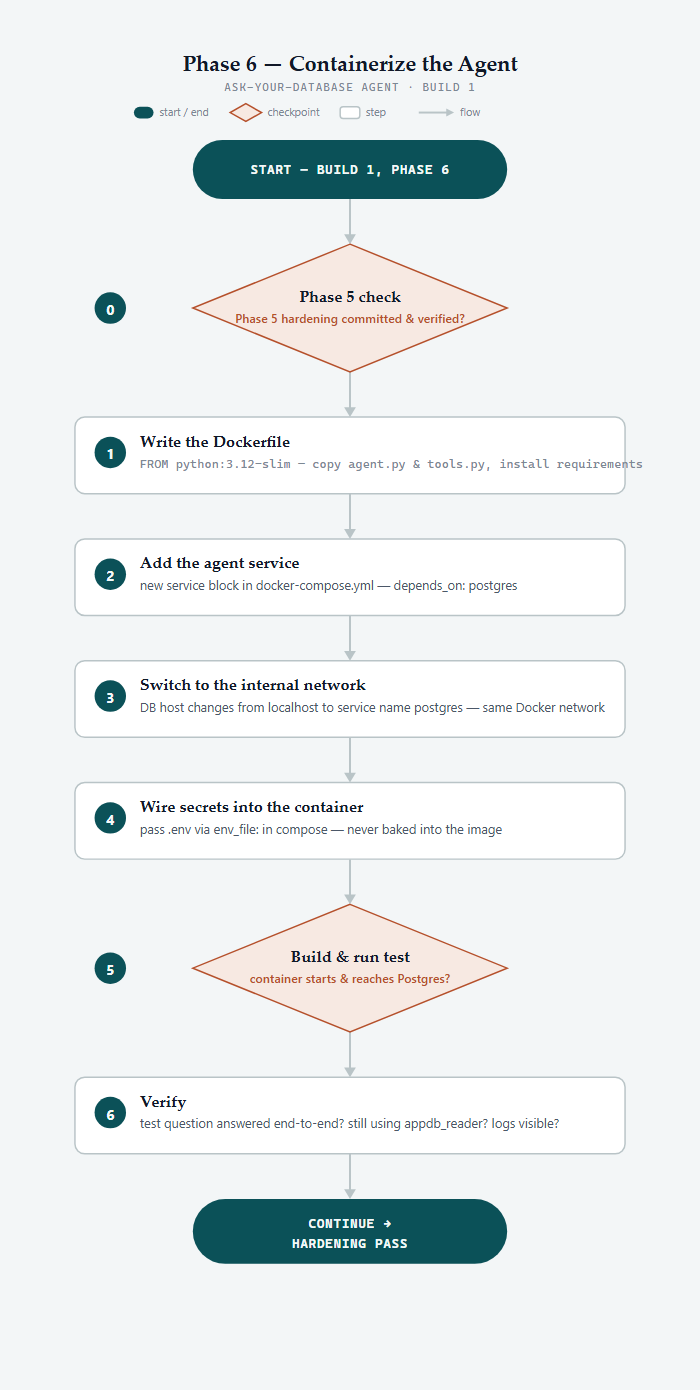
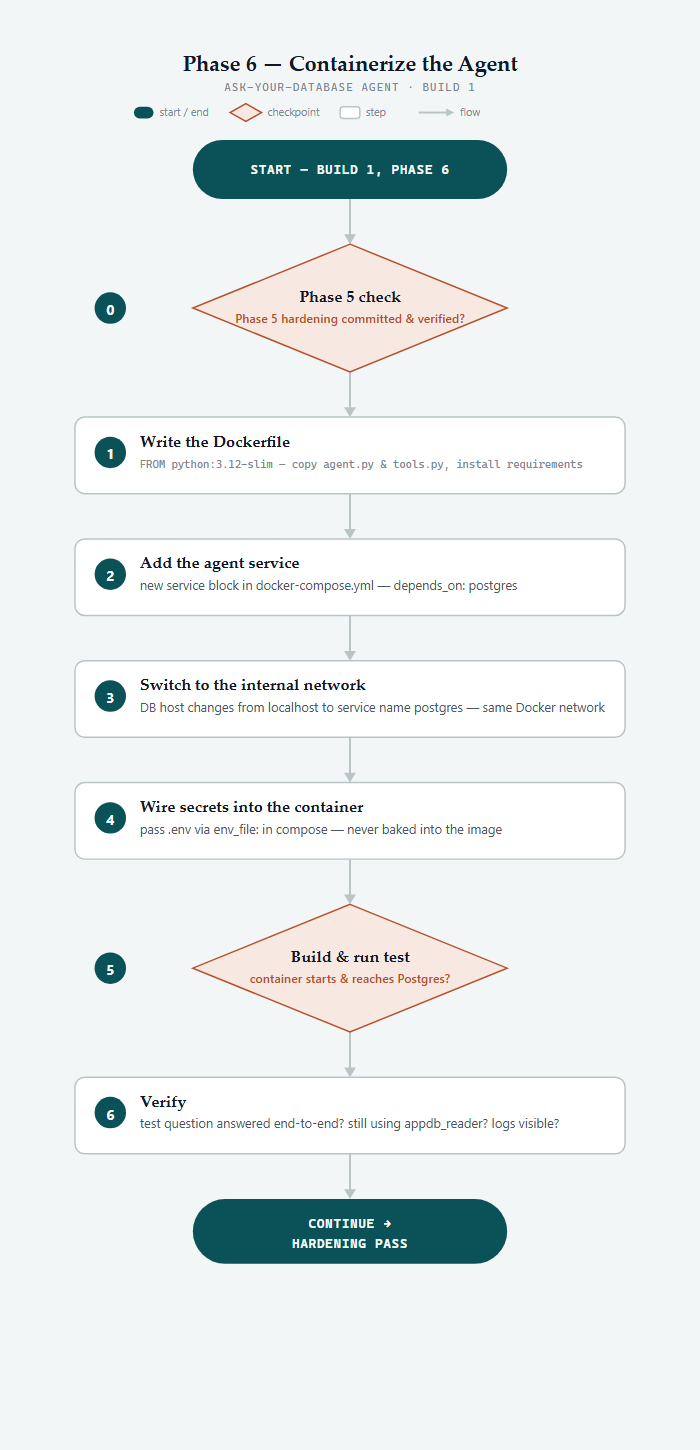
Fix Build 1 diagram text overflow, restyle and iconify the overview lists
The Dockerfile step's monospace command line ran flush to the box edge
(490px of text in ~494px of available width, vs. 50-90px of margin on
every other row) - dropped the .step-mono font size from 12.5px to 11px
in both the SVG source and its HTML viewer wrapper, regenerated the PNG
from the fixed HTML via headless render, and visually re-verified the
overflow is gone rather than trusting the width math alone.

"What it does" and "What makes it stand out" are now accent-green and
larger, each with a heading icon, and every one of their 11 list items
gets its own small icon badge (search, database, lock, shield-check,
etc.) instead of a plain bullet dot - breaks up what was a dense wall
of text into visually distinct, scannable items.

diff --git a/index.html b/index.html
@@ -95,16 +95,22 @@
   /* ---- project overview (up front) ---- */
   .overview-list { list-style: none; margin: 0 0 1.6rem; padding: 0; }
   .overview-list li {
-    position: relative; padding-left: 22px; margin-bottom: 0.85rem;
+    display: flex; align-items: flex-start; gap: 0.75rem; margin-bottom: 1rem;
     color: var(--muted); font-size: 0.96rem; max-width: 66ch; line-height: 1.6;
   }
-  .overview-list li::before {
-    content: ""; position: absolute; left: 0; top: 8px;
-    width: 7px; height: 7px; border-radius: 50%; background: var(--accent);
+  .overview-list .li-icon {
+    flex-shrink: 0; width: 30px; height: 30px; margin-top: 0.05rem;
+    border-radius: 8px; background: var(--tint);
+    display: flex; align-items: center; justify-content: center;
   }
+  .overview-list .li-icon svg { width: 16px; height: 16px; color: var(--accent); }
   .overview-list li b { color: var(--ink); }
   .overview-stats { margin: 1.4rem 0 2.2rem; }
-  #overview h3 { font-size: 1.05rem; margin: 2rem 0 1rem; }
+  #overview h3 {
+    font-size: 1.4rem; margin: 2.2rem 0 1.1rem; color: var(--accent);
+    display: flex; align-items: center; gap: 0.55rem;
+  }
+  #overview h3 svg { width: 22px; height: 22px; flex-shrink: 0; }
   #overview > .wrap > p { max-width: 66ch; color: var(--ink); }
 
   /* ---- flagship record ---- */
@@ -205,10 +211,23 @@
 <span class="chip">CI-gated</span>
 <span class="chip">4 documented live incident audits</span>
 </div>
-<h3>What it does</h3>
-<ul class="overview-list"><li><b>Answers questions in plain English</b> by writing and running its own SQL against a real PostgreSQL database, behind a role that can only ever <code>SELECT</code>.</li><li><b>Finds thematically related results with no exact keyword match</b>, using pgvector semantic search over the underlying data.</li><li><b>Answers questions about its own build history and status</b> through semantic search over the project's documentation, kept current as the system grows.</li><li><b>Persists computed results for reuse</b> in a scratch workspace isolated to its own database role and schema, with age-based visibility into what has been left behind and a UI-only path to remove it.</li><li><b>Runs as a working chat application</b> through a Streamlit front end with persistent, tiered conversation memory and transparency into the tools an answer relied on.</li></ul>
-<h3>What makes it stand out</h3>
-<ul class="overview-list"><li><b>Self-verification.</b> Every tool-backed response is checked by the project's second agent — the Verifier/Critic Agent — against the actual evidence gathered for the response, with a visible verified/unverified result and a plain-English reason. It is a distinct second agent in the stack, not simply another presentation layer for the first agent.</li><li><b>Full cost observability.</b> Tool calls and API turns are logged; token usage, latency, result size, and errors can be traced so a cost spike can be investigated rather than guessed at.</li><li><b>Least-privilege data access.</b> Two separate Postgres roles keep reading and writing distinct: one is strictly read-only for querying, while the other is scoped to the agent's scratch schema.</li><li><b>CI-gated correctness.</b> The full test suite and dedicated evaluation harness run from a clean environment, covering both the main agent's behavior and the verifier's judgment.</li><li><b>Incident-driven engineering.</b> Real issues have been found through live usage after deployment, then root-caused, fixed, and re-verified against a freshly deployed instance. The incidents are documented rather than hidden behind a polished final result.</li><li><b>Documentation that stays current.</b> The command reference and project history are maintained as the system grows and are kept aligned with the searchable documentation collection, so the agent's answers about its own system have a maintained source behind them.</li></ul>
+<h3><svg fill="none" stroke="currentColor" stroke-linecap="round" stroke-linejoin="round" stroke-width="2" viewbox="0 0 24 24"><polygon points="13 2 3 14 12 14 11 22 21 10 12 10 13 2"></polygon></svg>What it does</h3>
+<ul class="overview-list">
+<li><span class="li-icon"><svg fill="none" stroke="currentColor" stroke-linecap="round" stroke-linejoin="round" stroke-width="2" viewbox="0 0 24 24"><path d="M21 11.5a8.38 8.38 0 0 1-.9 3.8 8.5 8.5 0 0 1-7.6 4.7 8.38 8.38 0 0 1-3.8-.9L3 21l1.9-5.7a8.38 8.38 0 0 1-.9-3.8 8.5 8.5 0 0 1 4.7-7.6 8.38 8.38 0 0 1 3.8-.9h.5a8.48 8.48 0 0 1 8 8v.5z"></path></svg></span><span><b>Answers questions in plain English</b> by writing and running its own SQL against a real PostgreSQL database, behind a role that can only ever <code>SELECT</code>.</span></li>
+<li><span class="li-icon"><svg fill="none" stroke="currentColor" stroke-linecap="round" stroke-linejoin="round" stroke-width="2" viewbox="0 0 24 24"><circle cx="11" cy="11" r="8"></circle><line x1="21" x2="16.65" y1="21" y2="16.65"></line></svg></span><span><b>Finds thematically related results with no exact keyword match</b>, using pgvector semantic search over the underlying data.</span></li>
+<li><span class="li-icon"><svg fill="none" stroke="currentColor" stroke-linecap="round" stroke-linejoin="round" stroke-width="2" viewbox="0 0 24 24"><path d="M14 2H6a2 2 0 0 0-2 2v16a2 2 0 0 0 2 2h12a2 2 0 0 0 2-2V8z"></path><polyline points="14 2 14 8 20 8"></polyline><line x1="16" x2="8" y1="13" y2="13"></line><line x1="16" x2="8" y1="17" y2="17"></line></svg></span><span><b>Answers questions about its own build history and status</b> through semantic search over the project's documentation, kept current as the system grows.</span></li>
+<li><span class="li-icon"><svg fill="none" stroke="currentColor" stroke-linecap="round" stroke-linejoin="round" stroke-width="2" viewbox="0 0 24 24"><path d="M19 21H5a2 2 0 0 1-2-2V5a2 2 0 0 1 2-2h11l5 5v11a2 2 0 0 1-2 2z"></path><polyline points="17 21 17 13 7 13 7 21"></polyline><polyline points="7 3 7 8 15 8"></polyline></svg></span><span><b>Persists computed results for reuse</b> in a scratch workspace isolated to its own database role and schema, with age-based visibility into what has been left behind and a UI-only path to remove it.</span></li>
+<li><span class="li-icon"><svg fill="none" stroke="currentColor" stroke-linecap="round" stroke-linejoin="round" stroke-width="2" viewbox="0 0 24 24"><polyline points="4 17 10 11 4 5"></polyline><line x1="12" x2="20" y1="19" y2="19"></line></svg></span><span><b>Runs as a working chat application</b> through a Streamlit front end with persistent, tiered conversation memory and transparency into the tools an answer relied on.</span></li>
+</ul>
+<h3><svg fill="none" stroke="currentColor" stroke-linecap="round" stroke-linejoin="round" stroke-width="2" viewbox="0 0 24 24"><polygon points="12 2 15.09 8.26 22 9.27 17 14.14 18.18 21.02 12 17.77 5.82 21.02 7 14.14 2 9.27 8.91 8.26 12 2"></polygon></svg>What makes it stand out</h3>
+<ul class="overview-list">
+<li><span class="li-icon"><svg fill="none" stroke="currentColor" stroke-linecap="round" stroke-linejoin="round" stroke-width="2" viewbox="0 0 24 24"><path d="M22 11.08V12a10 10 0 1 1-5.93-9.14"></path><polyline points="22 4 12 14.01 9 11.01"></polyline></svg></span><span><b>Self-verification.</b> Every tool-backed response is checked by the project's second agent — the Verifier/Critic Agent — against the actual evidence gathered for the response, with a visible verified/unverified result and a plain-English reason. It is a distinct second agent in the stack, not simply another presentation layer for the first agent.</span></li>
+<li><span class="li-icon"><svg fill="none" stroke="currentColor" stroke-linecap="round" stroke-linejoin="round" stroke-width="2" viewbox="0 0 24 24"><path d="M1 12s4-8 11-8 11 8 11 8-4 8-11 8-11-8-11-8z"></path><circle cx="12" cy="12" r="3"></circle></svg></span><span><b>Full cost observability.</b> Tool calls and API turns are logged; token usage, latency, result size, and errors can be traced so a cost spike can be investigated rather than guessed at.</span></li>
+<li><span class="li-icon"><svg fill="none" stroke="currentColor" stroke-linecap="round" stroke-linejoin="round" stroke-width="2" viewbox="0 0 24 24"><rect height="11" rx="2" ry="2" width="18" x="3" y="11"></rect><path d="M7 11V7a5 5 0 0 1 10 0v4"></path></svg></span><span><b>Least-privilege data access.</b> Two separate Postgres roles keep reading and writing distinct: one is strictly read-only for querying, while the other is scoped to the agent's scratch schema.</span></li>
+<li><span class="li-icon"><svg fill="none" stroke="currentColor" stroke-linecap="round" stroke-linejoin="round" stroke-width="2" viewbox="0 0 24 24"><polyline points="22 12 18 12 15 21 9 3 6 12 2 12"></polyline></svg></span><span><b>CI-gated correctness.</b> The full test suite and dedicated evaluation harness run from a clean environment, covering both the main agent's behavior and the verifier's judgment.</span></li>
+<li><span class="li-icon"><svg fill="none" stroke="currentColor" stroke-linecap="round" stroke-linejoin="round" stroke-width="2" viewbox="0 0 24 24"><path d="M14.7 6.3a1 1 0 0 0 0 1.4l1.6 1.6a1 1 0 0 0 1.4 0l3.77-3.77a6 6 0 0 1-7.94 7.94l-6.91 6.91a2.12 2.12 0 0 1-3-3l6.91-6.91a6 6 0 0 1 7.94-7.94l-3.76 3.76z"></path></svg></span><span><b>Incident-driven engineering.</b> Real issues have been found through live usage after deployment, then root-caused, fixed, and re-verified against a freshly deployed instance. The incidents are documented rather than hidden behind a polished final result.</span></li>
+<li><span class="li-icon"><svg fill="none" stroke="currentColor" stroke-linecap="round" stroke-linejoin="round" stroke-width="2" viewbox="0 0 24 24"><polyline points="23 4 23 10 17 10"></polyline><polyline points="1 20 1 14 7 14"></polyline><path d="M3.51 9a9 9 0 0 1 14.85-3.36L23 10M1 14l4.64 4.36A9 9 0 0 0 20.49 15"></path></svg></span><span><b>Documentation that stays current.</b> The command reference and project history are maintained as the system grows and are kept aligned with the searchable documentation collection, so the agent's answers about its own system have a maintained source behind them.</span></li>
+</ul>
 </div>
 </section>
 <section id="work">
